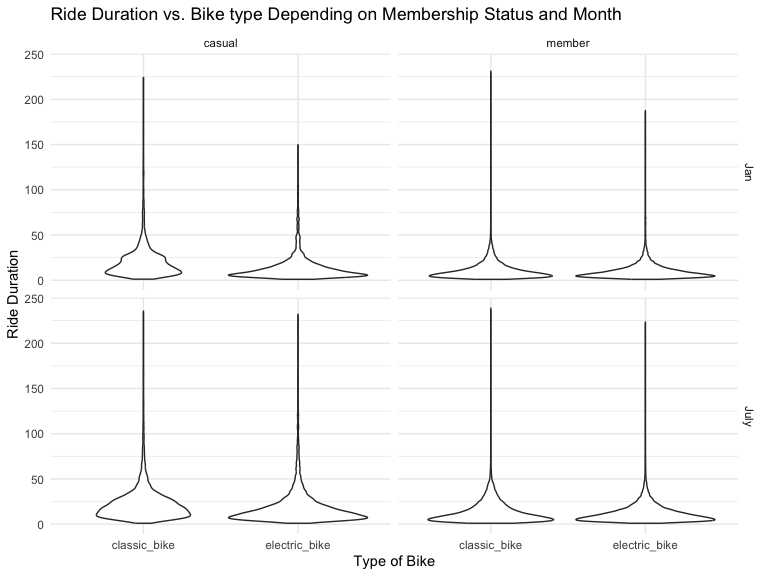
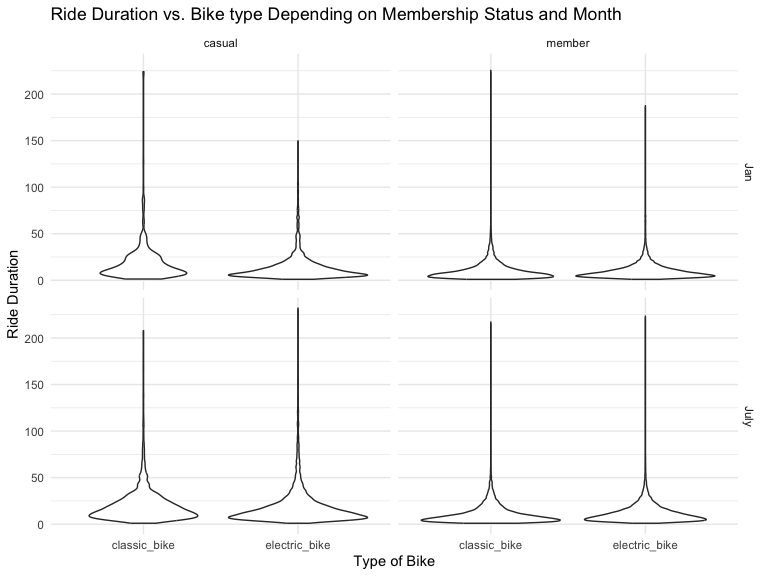
Added descriptions of the plot and fixed minor syntax errors

diff --git a/p8105_hw3_jc6452.md b/p8105_hw3_jc6452.md
@@ -1,7 +1,9 @@
 Homework 3
 ================
+Jeong Yun Choi
+Oct.16.2024
 
-# Problem 1
+## Problem 1
 
 ## importing data and cleaning up
 
@@ -192,15 +194,19 @@ ggplot(aes(x = age, y = total_activity, color = sex))+
 
 <img src="p8105_hw3_jc6452_files/figure-gfm/unnamed-chunk-6-1.png" width="90%" />
 Based on the plot above, I can observe that there is an overall
-decreasing total for all education level as age increases. Though one
-thing to note is that group with less than high school level education
-has the greatest total activities to begin with for both sex around age
-20.
+decreasing activity for all education level as age increases. Also, the
+group with less than high school level education has the greatest total
+activities to begin with for both sex around age 20. For groups with
+more than high school level and high school equivalent level of
+education, the total activity for female seems to be generally higher
+throughout the age. Interestingly, the total activities demonstrates to
+be rather constant throughout the age for group with more than high
+school level education.
 
 ``` r
 study %>% 
   ggplot(aes(x = time_elasped/60, y= mims, color = sex)) +
-  geom_point(alpha = 0.5) +
+  geom_point(alpha = 0.15) +
   geom_smooth(aes(group = sex),se = FALSE) +
   facet_grid(.~education) +
   labs(title = 'More than high school level education',
@@ -215,7 +221,7 @@ study %>%
 <img src="p8105_hw3_jc6452_files/figure-gfm/unnamed-chunk-7-1.png" width="90%" />
 The trend as seen via the smooth line demonstrates to be similar cross
 all three panels: There is an increase in the activity after 5 hours
-have elapsed and peaks around 10-12 hour. The acitivty slowly decreases
+have elapsed and peaks around 10-12 hour. The activity slowly decreases
 after hour 20. While the “High school equivalent” and “Less than high
 school” education groups show similar patterns individually, the “more
 than high school” group shows some variability. Especially noting the
@@ -321,7 +327,7 @@ citi_effect = citi %>%
     ## `summarise()` has grouped output by 'weekdays', 'month'. You can override using
     ## the `.groups` argument.
 
-### plotting to see the trend for all different types of e
+### plotting to see the trend for median duration based on weekdays, month and year
 
 ``` r
 citi_effect %>% 
@@ -340,9 +346,18 @@ citi_effect %>%
 ```
 
 <img src="p8105_hw3_jc6452_files/figure-gfm/unnamed-chunk-14-1.png" width="90%" />
+Based on the plot genearted above, there is an increase in median
+duration in riding the Citi Bike in July. Generally, July is in the
+middle of summer, so it’s warmer to ride bikes than in January (winter).
+Looking at the weekday trends, generally there is an upward spike in the
+median duration for the weekends, starting from Friday. There seems to
+be a tendency in 2024, for people to take short bike rides on Sunday
+compared to other days in the weekend, and general decrease in the
+median duration compared to 2020.
 
 ``` r
 citi %>% 
+  filter(year == "2024") %>% 
   ggplot(aes(x = rideable_type, y = duration))+
   geom_violin() + 
   facet_grid(month ~ member_casual) + 
@@ -354,3 +369,18 @@ citi %>%
 ```
 
 <img src="p8105_hw3_jc6452_files/figure-gfm/unnamed-chunk-15-1.png" width="90%" />
+The violin plot generated above shows the comparison of distribution
+among the types of bike, classic and electric, across different month
+for both casual and Citibike member riders. We can observe that overall
+there is a tendency for casual riders to ride for longer duration in
+July, likely due to warmer weather based on the wider density. There
+seems to be minimal difference between the violin plot for Citibike
+members throughout the months, except for shorter ride duration for
+electric bike in January. One reason could be that Citibike members
+utilize the bike for commuting and this will likely not change
+throughout the season. Another observation is that the electric bike
+tends to have shorter ride duration that classic bike. This could be due
+to the fact that electric bike will take less amount of time to arrive
+at the destination than classic bike, hence resulting in a shorter ride
+duration. Overall, the seasonal trend demonstrates a longer ride
+duration for July compared to January.
